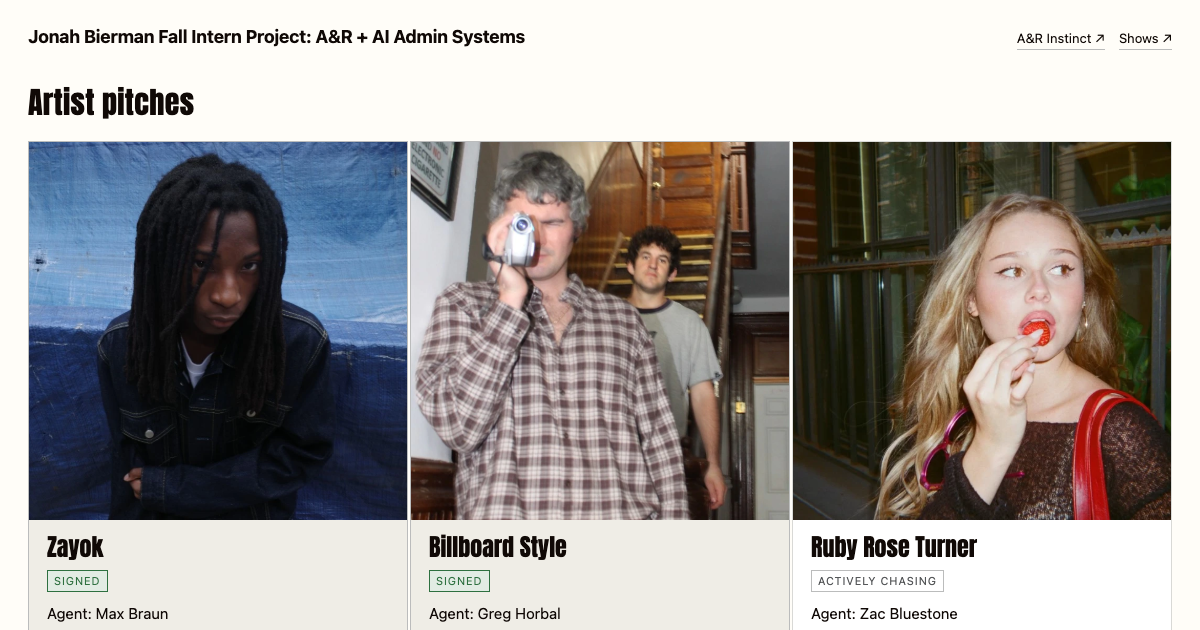
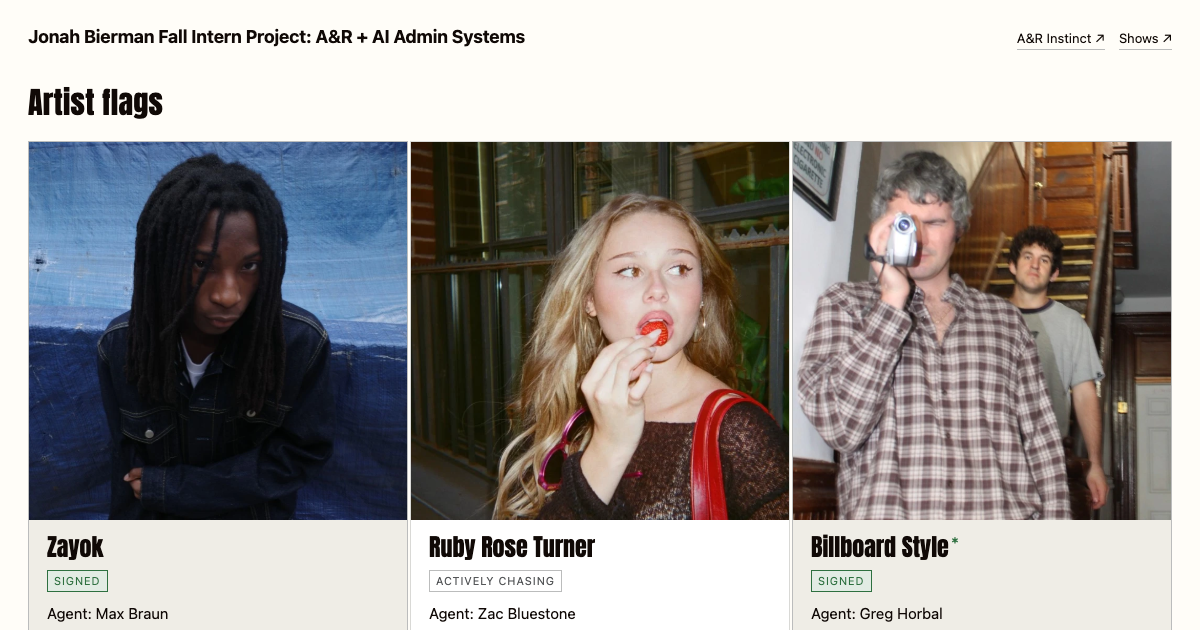
Artist flags: new order, Underground note; Shows description

diff --git a/index.html b/index.html
@@ -170,6 +170,8 @@
   .pitch-list li.done { background: #efede6; border-color: var(--grey4); }
   .pitch-list .st.prog { border-color: var(--grey4); color: var(--muted); background: none; }
   .pitch-list .to { display: block; margin-top: 10px; font-size: 15px; }
+  .pitch-list .ast { font-family: var(--sans); font-size: 18px; color: var(--green); margin-left: 2px; vertical-align: top; }
+  .pitch-list .note { display: block; margin-top: 10px; padding-top: 10px; border-top: 1px solid var(--grey4); font-size: 13px; color: var(--muted); }
   .pitch-list .how { display: block; margin-top: 4px; font-size: 14px; color: var(--muted); }
 
   /* label map */
@@ -255,17 +257,18 @@
 
   <main id="main" tabindex="-1">
   <section class="pitches" aria-labelledby="pi-h">
-    <h2 id="pi-h">Artist pitches</h2>
+    <h2 id="pi-h">Artist flags</h2>
     <ul class="pitch-list">
       <li class="done"><img src="img/zayok.webp" alt="Zayok" width="720" height="720" loading="lazy">
         <span class="who">Zayok</span><span class="st">Signed</span>
         <span class="to">Agent: Max Braun</span><span class="how">Personal connection</span></li>
-      <li class="done"><img src="img/billboard-style.webp" alt="Billboard Style" width="720" height="720" loading="lazy">
-        <span class="who">Billboard Style</span><span class="st">Signed</span>
-        <span class="to">Agent: Greg Horbal</span><span class="how">Found by the A&amp;R Instinct scan, Aug 10</span></li>
       <li><img src="img/ruby-rose-turner.webp" alt="Ruby Rose Turner" width="614" height="614" loading="lazy">
         <span class="who">Ruby Rose Turner</span><span class="st prog">Actively chasing</span>
         <span class="to">Agent: Zac Bluestone</span><span class="how">Personal connection</span></li>
+      <li class="done"><img src="img/billboard-style.webp" alt="Billboard Style" width="720" height="720" loading="lazy">
+        <span class="who">Billboard Style<sup class="ast">*</sup></span><span class="st">Signed</span>
+        <span class="to">Agent: Greg Horbal</span><span class="how">Found by the A&amp;R Instinct scan, Aug 10</span>
+        <span class="note">*Also flagged in Underground, two weeks after A&amp;R Instinct found them.</span></li>
     </ul>
   </section>
 
@@ -300,8 +303,6 @@
     <div id="p-sh" role="tabpanel" hidden>
       <div class="panel-head">
         <h3>Show calendar</h3>
-        <p>Everything playing tomorrow, and everything announced since the last check.
-          <a href="https://ilovemyphone30000.github.io/nyc-shows/">Open it &#8599;</a></p>
       </div>
       <div class="screen">
         <div class="bar tight">
@@ -403,7 +404,7 @@ var ANN = [{"c": "New York", "d": "2027-05-14", "t": "19:00", "h": "76th Street"
     return "<span class='flat'>&#9679; 0%</span>";
   }
 
-  var TABS = [["ar","A&R Instinct","Finds artists with no agent yet, from playlists, press and listener jumps."],["sh","Show calendar","Every show in New York, Chicago and LA, and which ones still have no support."],["it","Routing engine","Turns a short intake form into a multi-year tour plan."]];
+  var TABS = [["ar","A&R Instinct","Finds artists with no agent yet, from playlists, press and listener jumps."],["sh","Show calendar","Every show in NYC, LA and Chicago, and which new announcements don't have support."],["it","Routing engine","Turns a short intake form into a multi-year tour plan."]];
   var strip = document.getElementById("tabstrip");
   TABS.forEach(function (t, i) {
     var b = document.createElement("button");
